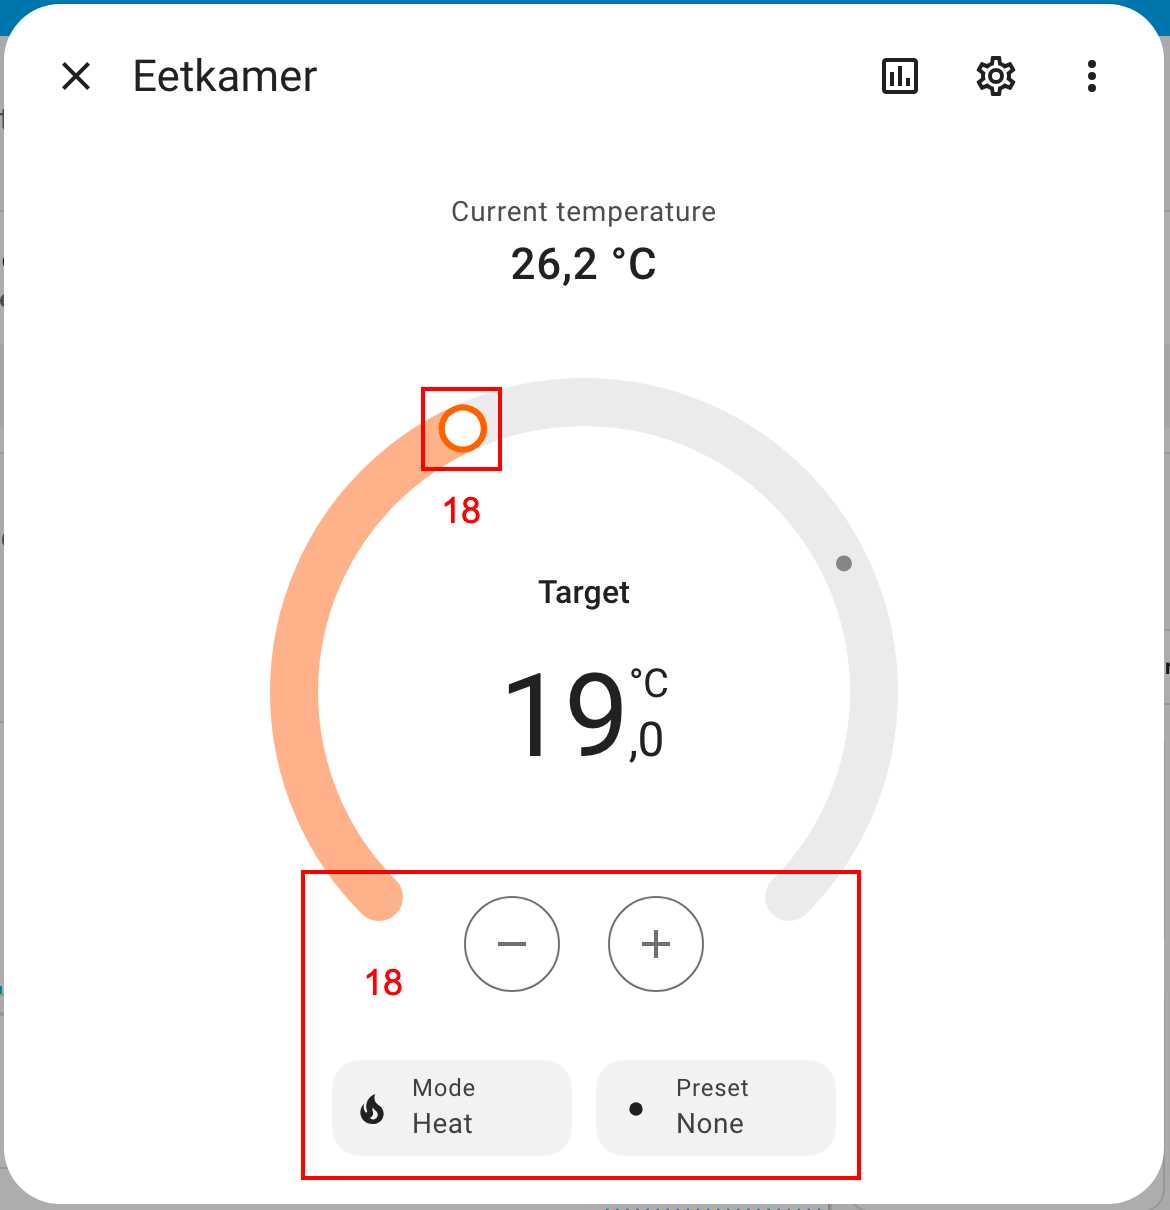
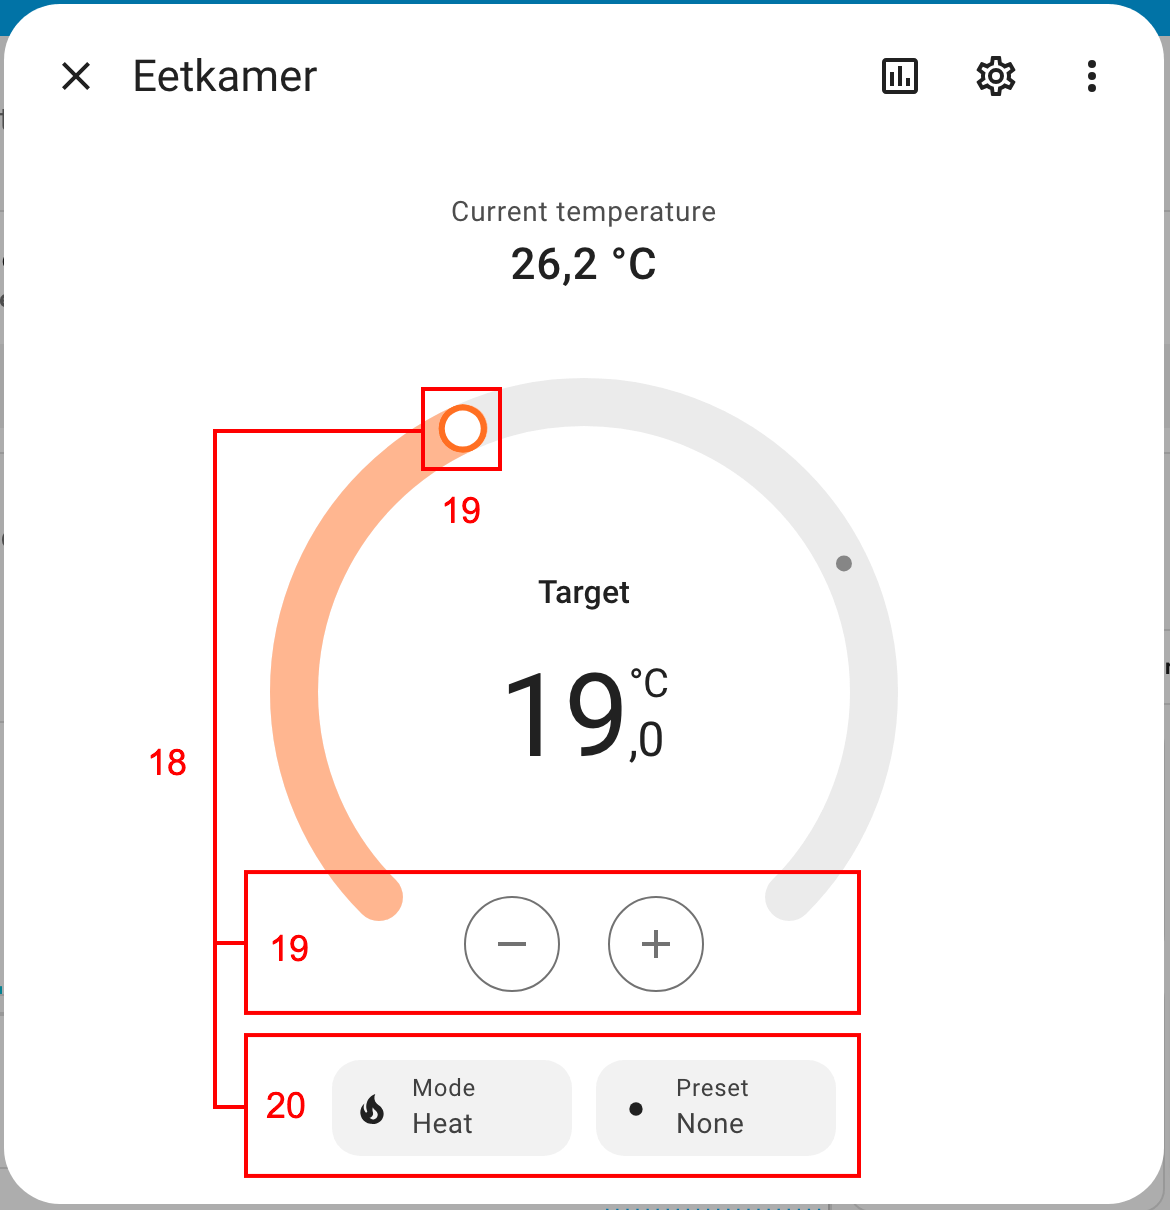
Update documentation

diff --git a/README.md b/README.md
@@ -96,7 +96,9 @@ views:
 |`hide_dialog_media_actions`               | Boolean | false   | Hides the actions block in the more-info dialogs of media-player entities. |
 |`hide_dialog_update_actions`              | Boolean | false   | Hides the actions block in the more-info dialogs of update entities. |
 |`hide_dialog_timer_actions`               | Boolean | false   | Hides the actions block in the more-info dialogs of timer entities. |
-|`hide_dialog_climate_actions`             | Boolean | false   | Hides the actions block in the more-info dialogs of climate entities. |
+|`hide_dialog_climate_actions`             | Boolean | false   | Hides all the actions in the more-info dialogs of climate entities. |
+|`hide_dialog_climate_temperature_actions` | Boolean | false   | Hides the temperature cotrol actions in the more-info dialogs of climate entities. |
+|`hide_dialog_climate_settings_actions`    | Boolean | false   | Hides the mode and preset actions in the more-info dialogs of climate entities. |
 |`hide_dialog_history_show_more`           | Boolean | false   | Hides the "Show more" link in the "History" section of more-info dialogs.  |
 |`hide_dialog_logbook_show_more`           | Boolean | false   | Hides the "Show more" link in the "Logbook" section of more-info dialogs. |
 |`block_overflow`                          | Boolean | false   | Blocks the top right overflow menu mouse interactions. |
@@ -170,9 +172,11 @@ views:
 <br>*More info dialog (climate entity)*
 <br>
 
-| Options                       | Hides |
-|:------------------------------|:------|
-| `hide_dialog_climate_actions` | 18    |
+| Options                                   | Hides |
+|:------------------------------------------|:------|
+| `hide_dialog_climate_actions`             | 18    |
+| `hide_dialog_climate_temperature_actions` | 19    |
+| `hide_dialog_climate_settings_actions`    | 20    |
 <br>
 
 ![Lovelace Dashboard](images/more-info-dialog-update-entity.png)
@@ -181,8 +185,8 @@ views:
 
 | Options                      | Hides |
 |:-----------------------------|:------|
-| `hide_dialog_update_actions` | 19    |
-| `hide_dialog_timer_actions`  | 19    |
+| `hide_dialog_update_actions` | 21    |
+| `hide_dialog_timer_actions`  | 21    |
 <br>
 
 ![Lovelace Dashboard](images/more-info-dialog-history-logbook-attributes.png)
@@ -191,11 +195,11 @@ views:
 
 | Options                         | Hides |
 |:--------------------------------|:------|
-| `hide_dialog_history`           | 20    |
-| `hide_dialog_logbook`           | 21    |
-| `hide_dialog_attributes`        | 22    |
-| `hide_dialog_history_show_more` | 23    |
-| `hide_dialog_logbook_show_more` | 24    |
+| `hide_dialog_history`           | 22    |
+| `hide_dialog_logbook`           | 23    |
+| `hide_dialog_attributes`        | 24    |
+| `hide_dialog_history_show_more` | 25    |
+| `hide_dialog_logbook_show_more` | 26    |
 
 <br>
 
@@ -321,7 +325,9 @@ The query string options are:
 * `?hide_dialog_media_actions` to hide the actions block in the more-info dialogs of media-player entities
 * `?hide_dialog_update_actions` to hide the actions block in the more-info dialogs of update entities
 * `?hide_dialog_timer_actions` to hide the actions block in the more-info dialogs of timer entities
-* `?hide_dialog_climate_actions` to hide the actions block in the more-info dialogs of climate entities
+* `?hide_dialog_climate_actions` to hide all the actions in the more-info dialogs of climate entities
+* `?hide_dialog_climate_temperature_actions` to hide the temperature cotrol actions in the more-info dialogs of climate entities
+* `?hide_dialog_climate_settings_actions` to hide the mode and preset actions in the more-info dialogs of climate entities
 * `?hide_dialog_history_show_more` to hide the "Show more" link in the "History" section of more-info dialogs
 * `?hide_dialog_logbook_show_more` to hide the "Show more" link in the "Logbook" section of more-info dialogs
 * `?block_overflow` to block the top right overflow menu mouse interactions
